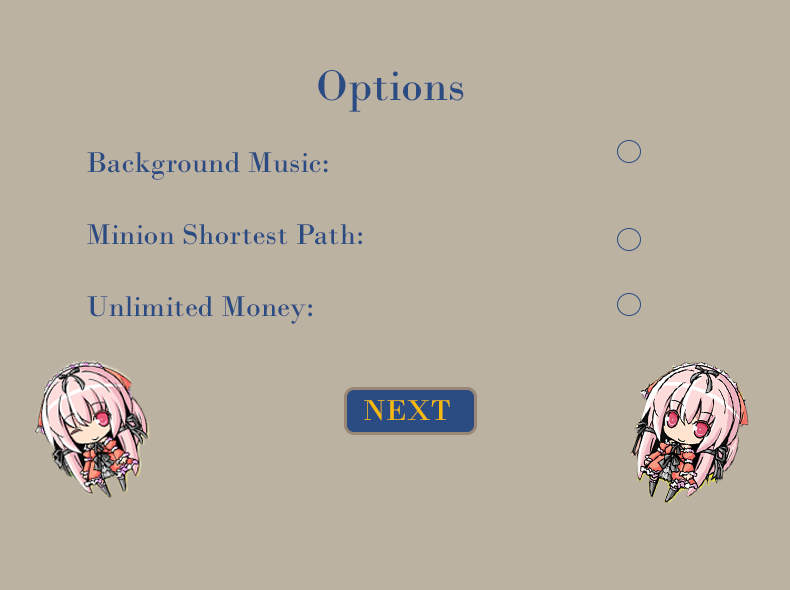
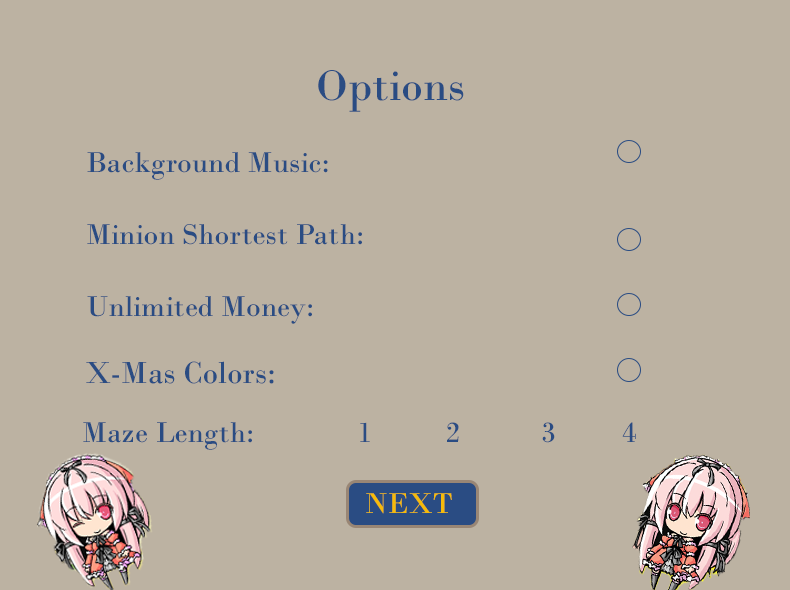
more options stuff

diff --git a/mapDraw.py b/mapDraw.py
@@ -42,7 +42,7 @@ def add1s(L,row,col,sol,num=0):#inspired by knights tour
                 L[row][col]= 0
                 num-=1
         return False
-def calculateMap(row, col):
+def calculateMap(row, col,diff):
     L= make2dList(row,col)
     c=random.randint(0,row)
     s=random.randint(0,row)
@@ -50,9 +50,12 @@ def calculateMap(row, col):
     while abs(c-s)<3:
         s=random.randint(0,row)
     if add1s(L,c,0,(s,sc)):
-        if L[s][sc]>90:
-            print(L)
-            return L,(s,sc),c
+        if diff<=3:
+            if L[s][sc]>22*diff and L[s][sc]<35*diff:
+                return L,(s,sc),c
+        elif diff==4:
+            if L[s][sc]>22*diff:
+                return L,(s,sc),c
         else:
             return None
     else:
@@ -122,21 +125,29 @@ class SplashScreenMode(Mode):
             mode.app.setActiveMode(mode.app.helpMode)
         elif event.x>58 and event.x<262 and event.y>330 and event.y<375:
             mode.app.setActiveMode(mode.app.optionsScreen)
+        elif event.x>58 and event.x<262 and event.y>400 and event.y<441:
+            mode.app.setActiveMode(mode.app.creditsPage)
+
 class GameMode(Mode):
     def appStarted(mode):
         print(mode.app.unlimitedMoney)
         #winsound documentation
         if mode.app.bgMusic==True:
             winsound.PlaySound('public/BGM01.wav', winsound.SND_ALIAS | winsound.SND_ASYNC | winsound.SND_LOOP) #music from https://www.youtube.com/watch?v=3PytsOJqyoc
-        mode.grass= mode.loadImage("public/grass.png") # from https://baudattitude.com/2012/07/10/witch-touching/
-        mode.walkPath= mode.loadImage("public/walkPath.png") #from https://www.aweapps.com/defense-witches-quick-review-2koma-manga-tower-defense
+        if mode.app.color==False:
+            mode.grass= mode.loadImage("public/grass.png") # from https://baudattitude.com/2012/07/10/witch-touching/
+            mode.walkPath= mode.loadImage("public/walkPath.png") #from https://www.aweapps.com/defense-witches-quick-review-2koma-manga-tower-defense
+            mode.tree= mode.loadImage("public/Tree.png") #From https://favpng.com/png_view/trees-drawing-watercolor-painting-tree-pencil-sketch-png/URn9j9Cz
+        else:
+            mode.grass= mode.loadImage("public/border.png") # from https://www.youtube.com/watch?v=CmCCAxJpzI8&ab_channel=DwNicola
+            mode.walkPath= mode.loadImage("public/Path3.png") #from https://www.youtube.com/watch?v=CmCCAxJpzI8&ab_channel=DwNicola
+            mode.tree= mode.loadImage("public/obstacle.png") #From https://www.youtube.com/watch?v=CmCCAxJpzI8&ab_channel=DwNicola
         mode.target =mode.loadImage("public/Target.png") #From https://www.aweapps.com/defense-witches-quick-review-2koma-manga-tower-defense
-        mode.tree= mode.loadImage("public/Tree.png") #From https://favpng.com/png_view/trees-drawing-watercolor-painting-tree-pencil-sketch-png/URn9j9Cz
         mode.water= mode.loadImage("public/water.jpg") # from https://apkpure.com/defense-witches/jp.newgate.game.android.dw
-        b = calculateMap(10,15)
+        b = calculateMap(10,15,mode.app.difficulty)
 
         while type(b)!= tuple:
-            b= calculateMap(10,15)
+            b= calculateMap(10,15,mode.app.difficulty)
         addPondandTrees(b[0])
 
         mode.L=b[0]
@@ -179,6 +190,8 @@ class GameMode(Mode):
         mode.DaisyBack2= mode.loadImage('public/DaisyBack1.png')#From https://www.aweapps.com/defense-witches-quick-review-2koma-manga-tower-defense
         mode.explode= mode.loadImage('public/explosionDaisy.png')#From https://www.aweapps.com/defense-witches-quick-review-2koma-manga-tower-defense
         mode.DaisyUpgrade= mode.loadImage('public/DaisyUpgrade.png')#From https://www.aweapps.com/defense-witches-quick-review-2koma-manga-tower-defense
+        mode.FirstButton=mode.loadImage('public/FirstButton.png')#i made this one myself
+        mode.LastButton=mode.loadImage('public/LastButton.png')#i made this one myself
         mode.DaisyList=[]
         mode.d=0
 
@@ -200,8 +213,9 @@ class GameMode(Mode):
         mode.crabMinionList.append(minions.CrabMinion(mode.c))
     def keyPressed(mode,event):
         if event.keycode==32:
-            print("hi")
             GameMode.appStarted(mode)
+        if event.keycode==8:
+            mode.app.setActiveMode(mode.app.splashScreenMode)
     def mousePressed(mode,event):
         mode.towerChoice=None
         if event.x>675 and event.x<725 and  event.y>25 and event.y<75:
@@ -236,6 +250,9 @@ class GameMode(Mode):
                     mode.DaisyList.remove(i)
                     mode.points+=128
                     mode.d-=1
+                if event.x>320 and event.x<420 and event.y>450 and event.y<490:
+                    i.attackmethod=not i.attackmethod
+
         for c in mode.ChloeList:
             if event.x> c.cx-25 and event.x<c.cx+25 and event.y>c.cy-35 and event.y<c.cy+35 and mode.d<1:
                 c.clicked=not c.clicked
@@ -257,6 +274,8 @@ class GameMode(Mode):
                     mode.ChloeList.remove(c)
                     mode.points+=128
                     mode.d-=1
+
+
         if mode.towerChoice=="Daisy":
             mode.DaisyList.append(character.Daisy(event.x,event.y))
         elif mode.towerChoice=="Chloe":
@@ -477,6 +496,10 @@ class GameMode(Mode):
             if k.clicked==True:
                 canvas.create_oval(k.cx-k.range*50,k.cy-k.range*50, k.cx+k.range*50, k.cy+ k.range*50)
                 canvas.create_image(400,475, image=ImageTk.PhotoImage(mode.DaisyUpgrade))
+                if k.attackmethod ==True:
+                    canvas.create_image(370,470, image=ImageTk.PhotoImage(mode.FirstButton))
+                else:
+                    canvas.create_image(370,470, image=ImageTk.PhotoImage(mode.LastButton))
         for c in mode.ChloeList:
             GameMode.chloeAttack(c, mode, canvas)
             if c.clicked==True:
@@ -500,13 +523,19 @@ class HelpMode(Mode):
 
     def mousePressed(mode, event):
         mode.app.setActiveMode(mode.app.gameMode)
-
+class CreditScreen (Mode):
+    def appStarted(mode):
+        mode.credit=mode.loadImage("public/Credits.png")
+    def redrawAll(mode,canvas):
+        canvas.create_image(400, 300, image=ImageTk.PhotoImage(mode.credit))
 class OptionsScreen(Mode):
     def appStarted(mode):
         mode.options=mode.loadImage("public/OptionsScreen.png")
         mode.minionShortestPath=False
         mode.bgMusic=False
         mode.unlimitedMoney=False
+        mode.color=False
+        mode.difficulty=4
     def redrawAll(mode,canvas):
         canvas.create_image(400, 300, image=ImageTk.PhotoImage(mode.options))
         if mode.bgMusic==True:
@@ -515,11 +544,24 @@ class OptionsScreen(Mode):
             canvas.create_oval(633-7,244-7,633+7,244+7, fill="white")
         if mode.unlimitedMoney==True:
             canvas.create_oval(633-7,310-7,633+7,310+7,fill="white")
+        if mode.color==True:
+            canvas.create_oval(633-7,374-7,633+7,374+7,fill="white")
+        if mode.difficulty==1:
+            canvas.create_oval(370-14,435-14,370+14,435+14)
+        elif mode.difficulty==2:
+            canvas.create_oval(456-14,435-14,456+14,435+14)
+        elif mode.difficulty==3:
+            canvas.create_oval(553-14,435-14,553+14,435+14)   
+        elif mode.difficulty==4:
+            canvas.create_oval(633-14,435-14,633+14,435+14)   
     def mousePressed(mode, event):
-        if event.x>349 and event.x<482 and event.y>395 and event.y<437:
+        print(event.x,event.y)
+        if event.x>349 and event.x<482 and event.y>486 and event.y<530:
             mode.app.minionShortestPath=mode.minionShortestPath
             mode.app.bgMusic=mode.bgMusic
             mode.app.unlimitedMoney=mode.unlimitedMoney
+            mode.app.color=mode.color
+            mode.app.difficulty=mode.difficulty
             mode.app.setActiveMode(mode.app.gameMode)
         if event.x>633-10 and event.x<633+10 and event.y>156-10 and event.y<156+10:
             mode.bgMusic=not mode.bgMusic
@@ -527,16 +569,29 @@ class OptionsScreen(Mode):
             mode.minionShortestPath= not mode.minionShortestPath
         if event.x>633-10 and event.x<633+10 and event.y>310-20 and event.y<310+10:
             mode.unlimitedMoney= not mode.unlimitedMoney
+        if event.x>633-10 and event.x<633+10 and event.y>374-20 and event.y<374+10:
+            mode.color= not mode.color
+        if event.x>370-7 and event.x<370+7 and event.y>435-7 and event.y<435+7:
+            mode.difficulty=1
+        if event.x>456-7 and event.x<456+7 and event.y>435-7 and event.y<435+7:
+            mode.difficulty=2
+        if event.x>553-7 and event.x<553+7 and event.y>435-7 and event.y<435+7:
+            mode.difficulty=3
+        if event.x>633-7 and event.x<633+7 and event.y>435-7 and event.y<435+7:
+            mode.difficulty=4
 #taken from 15112 website and altered
 class MyModalApp(ModalApp):
     def appStarted(app):
         app.bgMusic= False
         app.minionShortestPath=False
         app.unlimitedMoney=False
+        app.color=False
+        app.difficulty=4
         app.splashScreenMode = SplashScreenMode()
         app.gameMode = GameMode()
         app.helpMode = HelpMode()
         app.optionsScreen= OptionsScreen()
+        app.creditsPage= CreditScreen()
         app.setActiveMode(app.splashScreenMode)
         app.timerDelay = 50
 app = MyModalApp(width=800, height=600)

diff --git a/minions.py b/minions.py
@@ -23,16 +23,18 @@ class Minion(object):
         self.totalHealth=10
         self.money=10
         self.drawHealthBar= True
+        self.visited=set()
     def calcShortestPath2(self,L):
         (col,row)= getCell(self.cx, self.cy)
         moves=[(1,0),(0,-1),(-1,0), (0,1)]
-        maxim=-1
+        minim=-1
         m=(0,0)
         for move in moves:
-            if col+move[1]<len(L[0]) and  row+move[0]<len(L) and (isinstance(L[row+move[0]][col+move[1]], int) and row+move[0] >=0 and col+move[1]>=0 and L[row+move[0]][col+move[1]]>L[row][col] and L[row+move[0]][col+move[1]]>maxim
-            and L[row+move[0]][col+move[1]]>0 and  L[row+move[0]][col+move[1]]>L[row][col]):
+            if col+move[1]<len(L[0]) and  row+move[0]<len(L) and (isinstance(L[row+move[0]][col+move[1]], int) and row+move[0] >=0 and col+move[1]>=0 and L[row+move[0]][col+move[1]]>L[row][col] and L[row+move[0]][col+move[1]]>minim
+            and L[row+move[0]][col+move[1]]>0 and  L[row+move[0]][col+move[1]]>L[row][col]) and L[row+move[0]][col+move[1]] not in self.visited:
+                self.visited.add(L[row+move[0]][col+move[1]])
                 m=move
-                maxim=L[row+move[0]][col+move[1]]
+                minim=L[row+move[0]][col+move[1]]
         return m 
     def calculateNextDir(self, L):
         (col,row)= getCell(self.cx, self.cy)

diff --git a/character.py b/character.py
@@ -16,8 +16,13 @@ class Daisy(object):
         self.placed=False
         self.isValid=False
         self.clicked=False
+        self.attackmethod=True
     def shoot(self,L,P):
         a=L+P
+        if self.attackmethod==False:
+            a=a[::-1]
+        else:
+            a=L+P
         for i in a:
             d= distance(self.cx,self.cy,i.cx,i.cy)
             if d < self.range*50:
